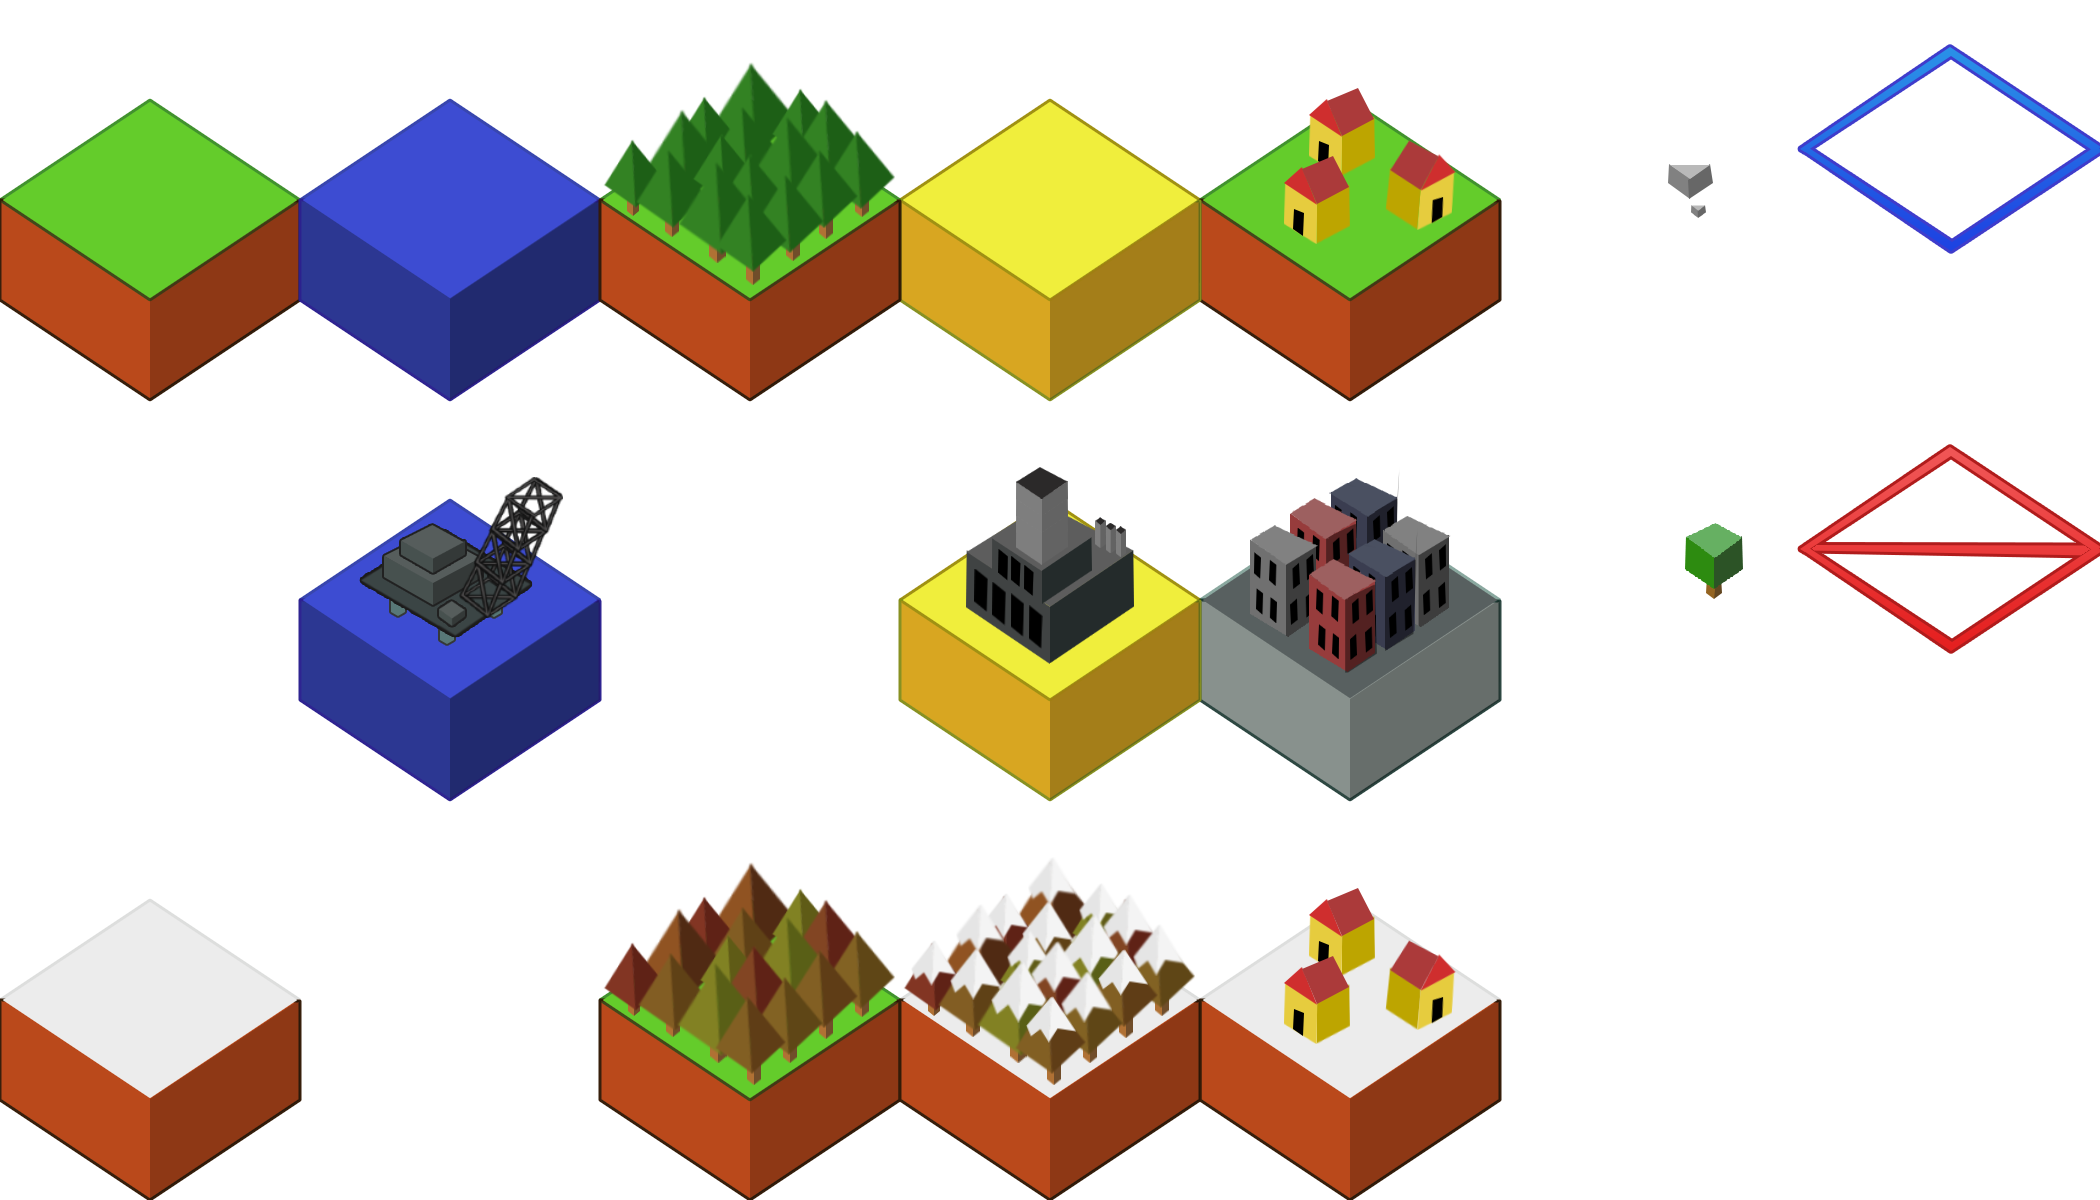
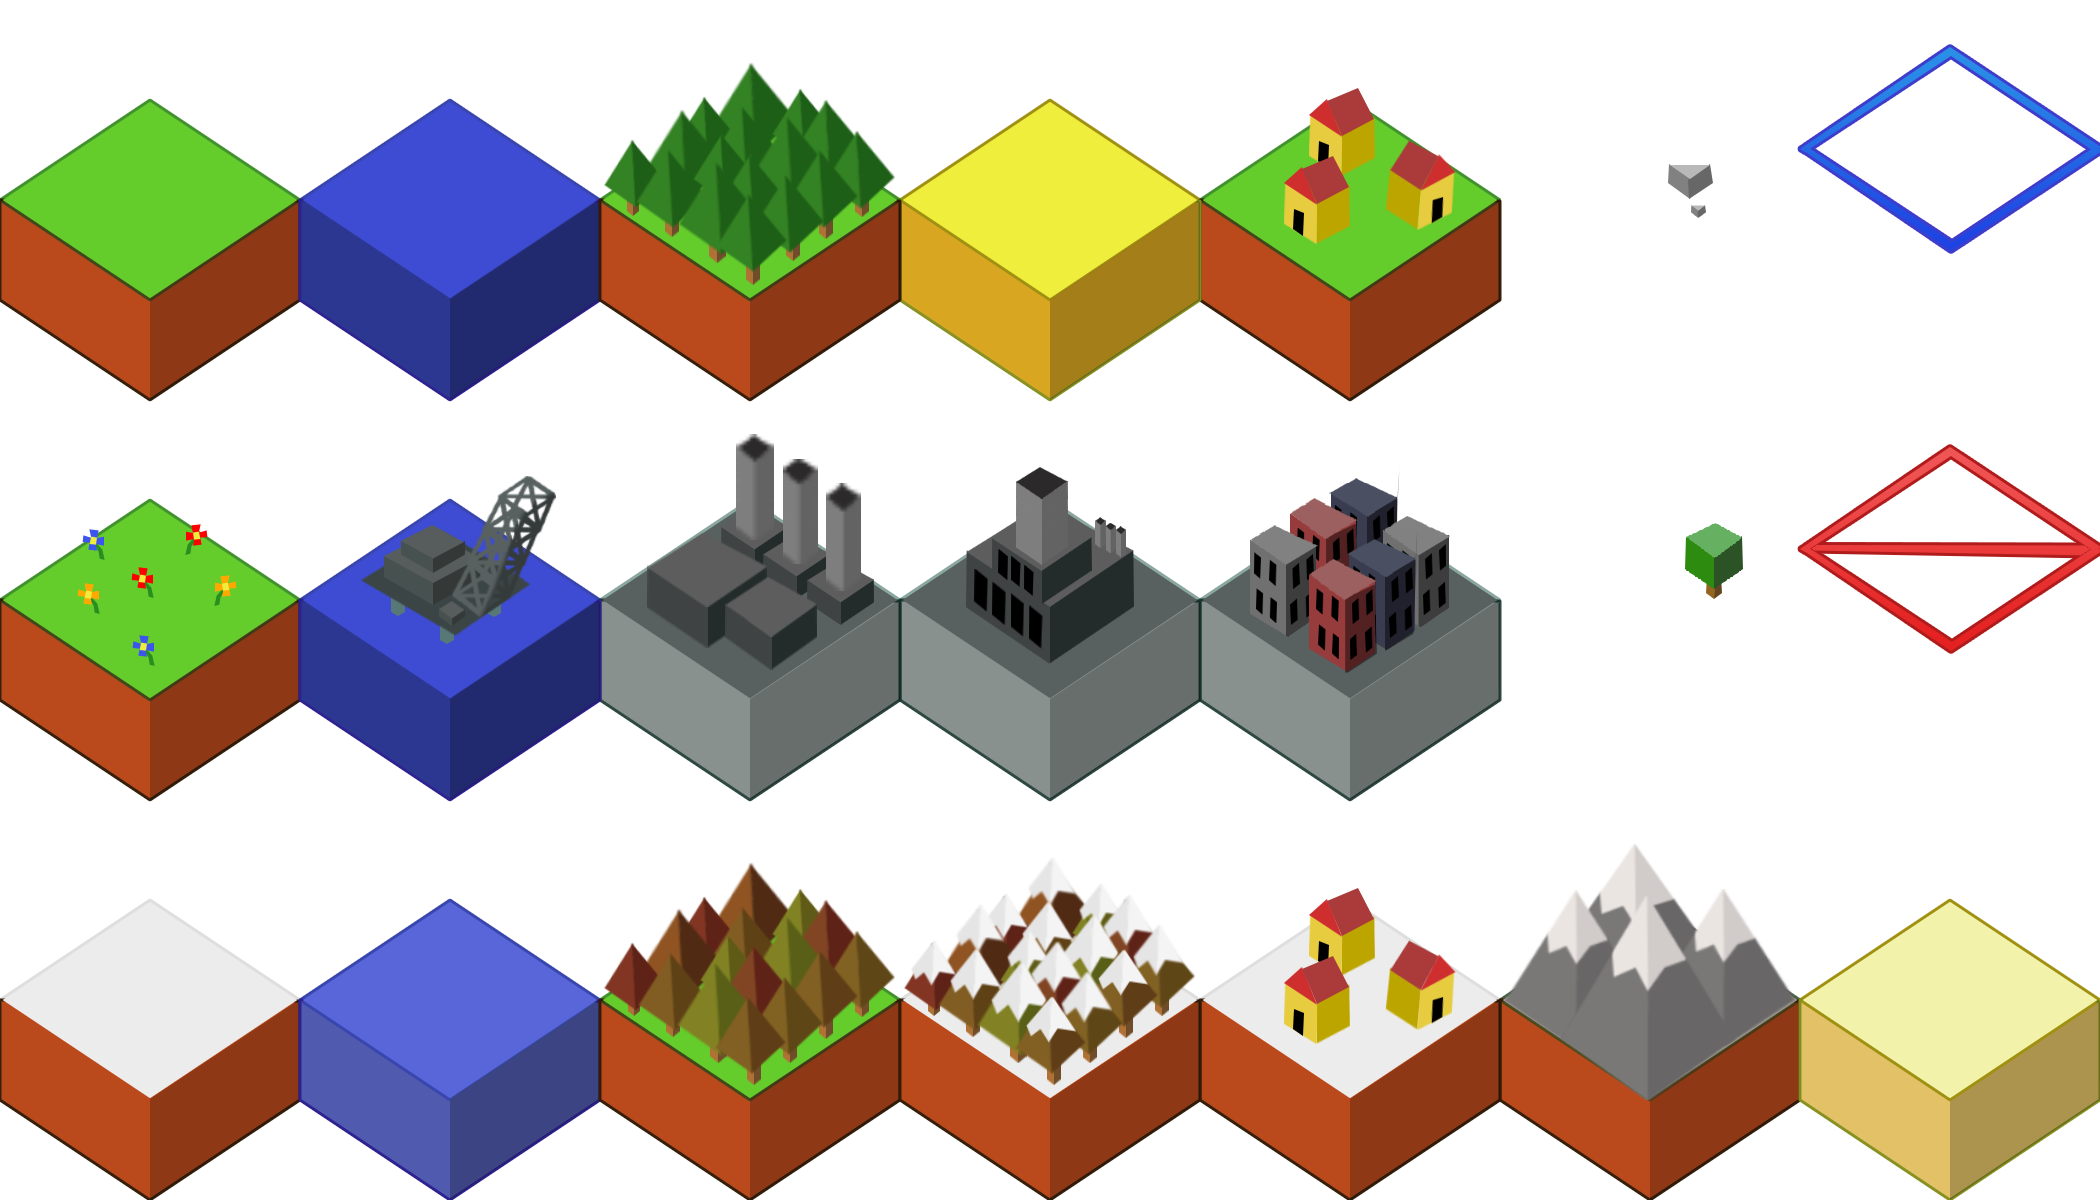
Added Mountains!

diff --git a/_games/voxel-biome/tmp.js b/_games/voxel-biome/tmp.js
@@ -97,6 +97,8 @@ var towns = 0;
 var cities = 0;
 var oilrigs = 0;
 var desertFactories = 0;
+var forestFactories = 0;
+var Mountains = 0;
 
 var forestPol = -5;
 var fieldPol = -2;
@@ -106,6 +108,8 @@ var townPol = +5;
 var cityPol = +10;
 var oilRigPol = +12;
 var desertFactoryPol = +15;
+var forestFactoryPol = +15;
+var MountainPol = -1;
 
 var forestDesc1 = "All those leaves";
 var forestDesc2 = "are bound to ";
@@ -139,6 +143,14 @@ var desertFactoryDesc1 = "They're taking";
 var desertFactoryDesc2 = "the deserts as";
 var desertFactoryDesc3 = "well?!";
 
+var forestFactoryDesc1 = "No no no...";
+var forestFactoryDesc2 = "This is getting";
+var forestFactoryDesc3 = "really bad...";
+
+var MountainDesc1 = "They block cities";
+var MountainDesc2 = "from spreading.";
+var MountainDesc3 = "Big plus!";
+
 var frameTimer2 = 0;
 var yearVisible = true;
 var yearlength = 1800;
@@ -151,7 +163,6 @@ function Voxel(x, y, width, height, type){
     this.width = width;
     this.height = height;
     this.type = type;
-    this.stage = 0;
 
     this.id = currentID;
 
@@ -188,13 +199,26 @@ function Voxel(x, y, width, height, type){
         //ctx.fillStyle = "rgb(30, 20, 40)";
         //ctx.fillRect(x - width/2, y - height/2, width, height);
         if(this.type === 1) { //FIELD
-            if(SEASON === "Spring" || SEASON === "Summer" || SEASON === "Fall") {
+            if(SEASON === "Spring" || SEASON === "Fall") {
                 if(this.opac1 < 0.95){
                     this.opac1 += 0.05;
+                }
+                if(this.opac3 > 0.05 && this.opac1 > 0.8){
+                    this.opac3 -= 0.05;
+                }
+            }else if (SEASON === "Summer"){
+                if(this.opac3 < 0.95){
+                    this.opac3 += 0.05;
+                }
+                if(this.opac1 > 0.05 && this.opac3 > 0.8){
+                    this.opac1 -= 0.05;
                 }
             }else{
                 if(this.opac1 > 0.05){
                     this.opac1 -= 0.05;
+                }
+                if(this.opac3 > 0.05){
+                    this.opac3 -= 0.05;
                 }
             }
 
@@ -202,6 +226,9 @@ function Voxel(x, y, width, height, type){
 
             ctx.globalAlpha = this.opac1;
             ctx.drawImage(voxelsG, 0, 0, 298, 400, this.x - width / 2, this.y - height / 2, width, height);
+
+            ctx.globalAlpha = this.opac3;
+            ctx.drawImage(voxelsG, 0, 400, 298, 400, this.x - width / 2, this.y - height / 2, width, height);
 
             ctx.globalAlpha = 1;
 
@@ -213,7 +240,22 @@ function Voxel(x, y, width, height, type){
 
         }else if(this.type === 2) { //SEA
 
+            if(SEASON === "Spring" || SEASON === "Summer" || SEASON === "Fall" ) {
+                if(this.opac1 > 0.05){
+                    this.opac1 -= 0.05;
+                }
+            }else{
+                if(this.opac1 < 0.95){
+                    this.opac1 += 0.05;
+                }
+            }
+
             ctx.drawImage(voxelsG, 300, 0, 298, 400, this.x - width / 2, this.y - height / 2, width, height);
+
+            ctx.globalAlpha = this.opac1;
+            ctx.drawImage(voxelsG, 300, 800, 298, 400, this.x - width / 2, this.y - height / 2, width, height);
+
+            ctx.globalAlpha = 1;
 
         }else if(this.type === 2.1) { //SEA
 
@@ -254,19 +296,41 @@ function Voxel(x, y, width, height, type){
 
             ctx.globalAlpha = 1;
 
+        }else if(this.type === 3.1) { // FOREST FACTORY
+            ctx.drawImage(voxelsG, 600, 400, 298, 400, this.x - width / 2, this.y - height / 2, width, height);
         }else if(this.type === 4) { //DESERT
+
+            if(SEASON === "Spring" || SEASON === "Summer" || SEASON === "Fall" ) {
+                if(this.opac1 > 0.05){
+                    this.opac1 -= 0.05;
+                }
+            }else{
+                if(this.opac1 < 0.95){
+                    this.opac1 += 0.05;
+                }
+            }
+
             ctx.drawImage(voxelsG, 900, 0, 298, 400, this.x - width / 2, this.y - height / 2, width, height);
+
+            ctx.globalAlpha = this.opac1;
+            ctx.drawImage(voxelsG, 1800, 800, 298, 400, this.x - width / 2, this.y - height / 2, width, height);
+
+            ctx.globalAlpha = 1;
 
             if(this.randomChance < 0.2){
                 ctx.drawImage(voxelsG, 1500, 0, 298, 400, this.x - width / 2, this.y - height / 2, width, height);
             }
         }else if(this.type === 4.1) { //DESERT
             ctx.drawImage(voxelsG, 900, 400, 298, 400, this.x - width / 2, this.y - height / 2, width, height);
-        }else if(this.type === 5) { //TOWN
+        }else if(this.type === 5) { //MOUNTAIN
+
+            ctx.drawImage(voxelsG, 1500, 800, 298, 400, this.x - width / 2, this.y - height / 2, width, height);
+
+        }else if(this.type === 6) { //TOWN
 
             ctx.drawImage(voxelsG, 1200, 400, 298, 400, this.x - width / 2, this.y - height / 2, width, height);
 
-        }else if(this.type === 5.1) {
+        }else if(this.type === 6.1) {
             this.internalTimer = 0; //---------------------------------------- REMEMBER TO MOVE THIS LINE ALONG...
 
             if(SEASON === "Spring" || SEASON === "Summer" || SEASON === "Fall") {
@@ -301,7 +365,7 @@ function Voxel(x, y, width, height, type){
     };
     this.update = function(){
 
-        if(this.type === 5.1 && this.opac1 > 0 && SEASON !== "Winter"){
+        if(this.type === 6.1 && this.opac1 > 0 && SEASON !== "Winter"){
             this.opac1 = 0;
         }
 
@@ -323,7 +387,7 @@ function Voxel(x, y, width, height, type){
             }
         }
 
-        if(this.type === 5){
+        if(this.type === 6){
             this.internalTimer = 0;
         }
 
@@ -331,11 +395,13 @@ function Voxel(x, y, width, height, type){
 
             this.cityProperty = true;
             if(this.type === 1){
-                this.type = 5.1;
+                this.type = 6.1;
             }else if(this.type === 2){
                 this.type = 2.1;
             }else if(this.type === 4){
                 this.type = 4.1;
+            }else if(this.type === 3){
+                this.type = 3.1;
             }
             this.turnToCityTerritory = false;
 
@@ -373,7 +439,9 @@ for(var i = 0; i < gridTest[0].length; i++) {
         }else if(gridTest[i][j] === 4){
             voxels.push(new Voxel(WIDTH - ((WIDTH / 33 * (j - i + 1)) - (WIDTH / 33 * (-15))), (HEIGHT / 14 * j/2) + (i * HEIGHT / 28) + ((maxGridLength + 10) * HEIGHT / 29) - (HEIGHT/33 * maxGridLength), WIDTH/16, WIDTH/12, 4));
         }else if(gridTest[i][j] === 5){
-            voxels.push(new Voxel(WIDTH - ((WIDTH / 33 * (j - i + 1)) - (WIDTH / 33 * (-15))), (HEIGHT / 14 * j/2) + (i * HEIGHT / 28) + ((maxGridLength + 10) * HEIGHT / 29) - (HEIGHT/33 * maxGridLength), WIDTH/16, WIDTH/12, 5.1));
+            voxels.push(new Voxel(WIDTH - ((WIDTH / 33 * (j - i + 1)) - (WIDTH / 33 * (-15))), (HEIGHT / 14 * j/2) + (i * HEIGHT / 28) + ((maxGridLength + 10) * HEIGHT / 29) - (HEIGHT/33 * maxGridLength), WIDTH/16, WIDTH/12, 5));
+        }else if(gridTest[i][j] === 6){
+            voxels.push(new Voxel(WIDTH - ((WIDTH / 33 * (j - i + 1)) - (WIDTH / 33 * (-15))), (HEIGHT / 14 * j/2) + (i * HEIGHT / 28) + ((maxGridLength + 10) * HEIGHT / 29) - (HEIGHT/33 * maxGridLength), WIDTH/16, WIDTH/12, 6.1));
         }
         //voxels.push(new Voxel((WIDTH / 10 * (j + 3)) + (i * WIDTH/20), HEIGHT - ((HEIGHT / 30 * 9) - (HEIGHT / 30 * (i + 1))), 75, 75));
     }
@@ -406,13 +474,17 @@ function game(){
             oilrigs++;
 .1      }else if(voxels[i].type === 3){
             forests++;
+        }else if(voxels[i].type === 3.1){
+            forestFactories++;
         }else if(voxels[i].type === 4){
             deserts++;
         }else if(voxels[i].type === 4.1){
             desertFactories++;
         }else if(voxels[i].type === 5){
+            Mountains++;
+        }else if(voxels[i].type === 6){
             cities++;
-        }else if(voxels[i].type === 5.1){
+        }else if(voxels[i].type === 6.1){
             towns++;
         }
 
@@ -488,12 +560,12 @@ function game(){
 
     }
 
-    POLUTION = (fields * fieldPol) + (seas * seaPol) + (forests * forestPol) + (deserts * desertPol) + (cities * cityPol) + (oilrigs * oilRigPol) + (towns * townPol);
+    POLUTION = (fields * fieldPol) + (seas * seaPol) + (forests * forestPol) + (deserts * desertPol)
+        + (cities * cityPol) + (oilrigs * oilRigPol) + (towns * townPol) + (forestFactories * forestFactoryPol) + (Mountains * MountainPol);
 
     // CITY TURN ---------------------------------------------------------------------------------------------------------------------------------
 
-    TEMPPOINTS += ((fields) + (seas) + (forests * 2) - (deserts))/1000;
-
+    TEMPPOINTS += ((fields) + (seas) + (forests * 2) - (deserts) + (Mountains))/1000;
     if(frameCount % yearlength === 0){
         yearVisible = true;
         if(SEASON === "Spring"){
@@ -524,12 +596,12 @@ function game(){
 
         for(var f = 0; f < voxels.length; f++){
 
-            if(voxels[f].type === 5 || voxels[f].cityProperty === true || voxels[f].type === 5.1) {
+            if(voxels[f].type === 6 || voxels[f].cityProperty === true || voxels[f].type === 6.1) {
                 var diceRollCity = Math.random();
 
                 if (diceRollCity < 0.3) {
-                    if (voxels[f].type === 5.1) {
-                        voxels[f].type = 5;
+                    if (voxels[f].type === 6.1) {
+                        voxels[f].type = 6;
                     }
                 }else{
 
@@ -540,19 +612,19 @@ function game(){
                             if (gridRoll[m][n] === voxels[f].id) {
 
                                 if (diceRollCity2 === 1) {
-                                    if (voxels[gridRoll[m - 1][n]] != null) {
+                                    if (voxels[gridRoll[m - 1][n]] != null && voxels[gridRoll[m - 1][n]].type !== 5) {
                                         voxels[gridRoll[m - 1][n]].turnToCityTerritory = true;
                                     }
                                 } else if (diceRollCity2 === 2) {
-                                    if (voxels[gridRoll[m][n - 1]] != null) {
+                                    if (voxels[gridRoll[m][n - 1]] != null && voxels[gridRoll[m][n - 1]].type !== 5) {
                                         voxels[gridRoll[m][n - 1]].turnToCityTerritory = true;
                                     }
                                 } else if (diceRollCity2 === 3) {
-                                    if (voxels[gridRoll[m + 1][n]] != null) {
+                                    if (voxels[gridRoll[m + 1][n]] != null && voxels[gridRoll[m + 1][n]].type !== 5) {
                                         voxels[gridRoll[m + 1][n]].turnToCityTerritory = true;
                                     }
                                 }else{
-                                    if (voxels[gridRoll[m][n + 1]] != null) {
+                                    if (voxels[gridRoll[m][n + 1]] != null&& voxels[gridRoll[m][n + 1]].type !== 5) {
                                         voxels[gridRoll[m][n + 1]].turnToCityTerritory = true;
                                     }
                                 }
@@ -597,7 +669,8 @@ function game(){
     if (keys && keys[50]){buildType = 2;}
     if (keys && keys[51]){buildType = 3;}
     if (keys && keys[52]){buildType = 4;}
-    if (keys && keys[53]){buildType = 5.1;}
+    if (keys && keys[53]){buildType = 5;}
+    if (keys && keys[54]){buildType = 6.1;}
     if (keys && keys[48]){buildType = 0;}
 
     if (keys && keys[114] && frameTimer2 < 1){
@@ -657,7 +730,8 @@ function game(){
     ctx.fillText("Seas: " + seas,WIDTH/90,HEIGHT/10 + (HEIGHT/15));
     ctx.fillText("Forests: " + forests,WIDTH/90,HEIGHT/10 + (HEIGHT/15)*2);
     ctx.fillText("Deserts: " + deserts,WIDTH/90,HEIGHT/10 + (HEIGHT/15)*3);
-    ctx.fillText("Cities: " + cities,WIDTH/90,HEIGHT/10 + (HEIGHT/15)*4);
+    ctx.fillText("Mountains: " + Mountains,WIDTH/90,HEIGHT/10 + (HEIGHT/15)*4);
+    ctx.fillText("Cities: " + cities,WIDTH/90,HEIGHT/10 + (HEIGHT/15)*5);
 
     if(yearVisible === true) {
         ctx.fillStyle = "rgb(255, 255, 255)";
@@ -780,6 +854,32 @@ function game(){
 
                 ctx.fillText("Pollution: " + forestPol.toString() + "%" , WIDTH - WIDTH/13, HEIGHT/4 + (HEIGHT/40)*5 + HEIGHT/50);
 
+            }else if(selectedVoxelType === 3.1){
+
+                ctx.drawImage(voxelsG, 600, 400, 298, 400, WIDTH - WIDTH/9, HEIGHT/18, WIDTH/15, WIDTH/11.25);
+
+                ctx.font = '12pt Courier New';
+                ctx.fillStyle = "rgb(255, 255, 255)";
+
+                ctx.textAlign="center";
+                ctx.fillText("Industrial Unit" , WIDTH - WIDTH/13, HEIGHT/4);
+
+                ctx.font = '9pt Courier New';
+                ctx.fillStyle = "rgb(255, 255, 255)";
+
+                ctx.fillText(forestFactoryDesc1 , WIDTH - WIDTH/13, HEIGHT/4 + HEIGHT/40 + HEIGHT/50);
+                ctx.fillText(forestFactoryDesc2 , WIDTH - WIDTH/13, HEIGHT/4 + (HEIGHT/40)*2 + HEIGHT/50);
+                ctx.fillText(forestFactoryDesc3 , WIDTH - WIDTH/13, HEIGHT/4 + (HEIGHT/40)*3 + HEIGHT/50);
+
+                ctx.font = '10pt Courier New';
+                if(forestFactoryPol <= 0) {
+                    ctx.fillStyle = "rgb(0, 200, 0)";
+                }else{
+                    ctx.fillStyle = "rgb(200, 0, 0)";
+                }
+
+                ctx.fillText("Pollution: " + forestFactoryPol.toString() + "%" , WIDTH - WIDTH/13, HEIGHT/4 + (HEIGHT/40)*5 + HEIGHT/50);
+
             }else if(selectedVoxelType === 4){
 
                 ctx.drawImage(voxelsG, 900, 0, 298, 400, WIDTH - WIDTH/9, HEIGHT/18, WIDTH/15, WIDTH/11.25);
@@ -832,7 +932,33 @@ function game(){
 
                 ctx.fillText("Pollution: " + desertFactoryPol.toString() + "%", WIDTH - WIDTH / 13, HEIGHT / 4 + (HEIGHT / 40) * 5 + HEIGHT / 50);
 
-            }else if(selectedVoxelType === 5){
+            }else if(selectedVoxelType === 5) {
+
+                ctx.drawImage(voxelsG, 1500, 800, 298, 400, WIDTH - WIDTH / 9, HEIGHT / 18, WIDTH / 15, WIDTH / 11.25);
+
+                ctx.font = '12pt Courier New';
+                ctx.fillStyle = "rgb(255, 255, 255)";
+
+                ctx.textAlign = "center";
+                ctx.fillText("Mountains", WIDTH - WIDTH / 13, HEIGHT / 4);
+
+                ctx.font = '9pt Courier New';
+                ctx.fillStyle = "rgb(255, 255, 255)";
+
+                ctx.fillText(MountainDesc1, WIDTH - WIDTH / 13, HEIGHT / 4 + HEIGHT / 40 + HEIGHT / 50);
+                ctx.fillText(MountainDesc2, WIDTH - WIDTH / 13, HEIGHT / 4 + (HEIGHT / 40) * 2 + HEIGHT / 50);
+                ctx.fillText(MountainDesc3, WIDTH - WIDTH / 13, HEIGHT / 4 + (HEIGHT / 40) * 3 + HEIGHT / 50);
+
+                ctx.font = '10pt Courier New';
+                if (MountainPol <= 0) {
+                    ctx.fillStyle = "rgb(0, 200, 0)";
+                } else {
+                    ctx.fillStyle = "rgb(200, 0, 0)";
+                }
+
+                ctx.fillText("Pollution: " + MountainPol.toString() + "%", WIDTH - WIDTH / 13, HEIGHT / 4 + (HEIGHT / 40) * 5 + HEIGHT / 50);
+
+            }else if(selectedVoxelType === 6){
 
                 ctx.drawImage(voxelsG, 1200, 400, 298, 400, WIDTH - WIDTH / 9, HEIGHT / 18, WIDTH / 15, WIDTH / 11.25);
 
@@ -858,7 +984,7 @@ function game(){
 
                 ctx.fillText("Pollution: " + cityPol.toString() + "%" , WIDTH - WIDTH/13, HEIGHT/4 + (HEIGHT/40)*5 + HEIGHT/50);
 
-            }else if(selectedVoxelType === 5.1){
+            }else if(selectedVoxelType === 6.1){
 
                 ctx.drawImage(voxelsG, 1200, 0, 298, 400, WIDTH - WIDTH / 9, HEIGHT / 18, WIDTH / 15, WIDTH / 11.25);
 
@@ -897,6 +1023,8 @@ function game(){
     oilrigs = 0;
     towns = 0;
     desertFactories = 0;
+    forestFactories = 0;
+    Mountains = 0;
 
     if(gameRunning === true) {
 
